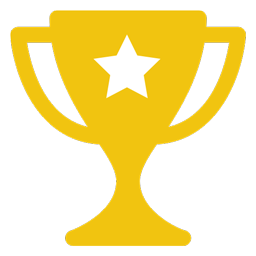
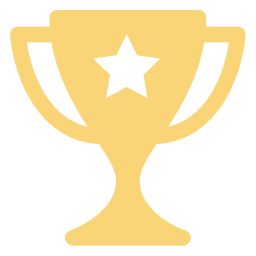
Updates site to new styling

diff --git a/source/stylesheets/main.scss b/source/stylesheets/main.scss
@@ -1,6 +1,6 @@
 @import 'bootstrap_custom';
 
-$main-color: #2d3e4f;
+$main-color: #2EAD97;
 $text-color: #fff;
 
 html,
